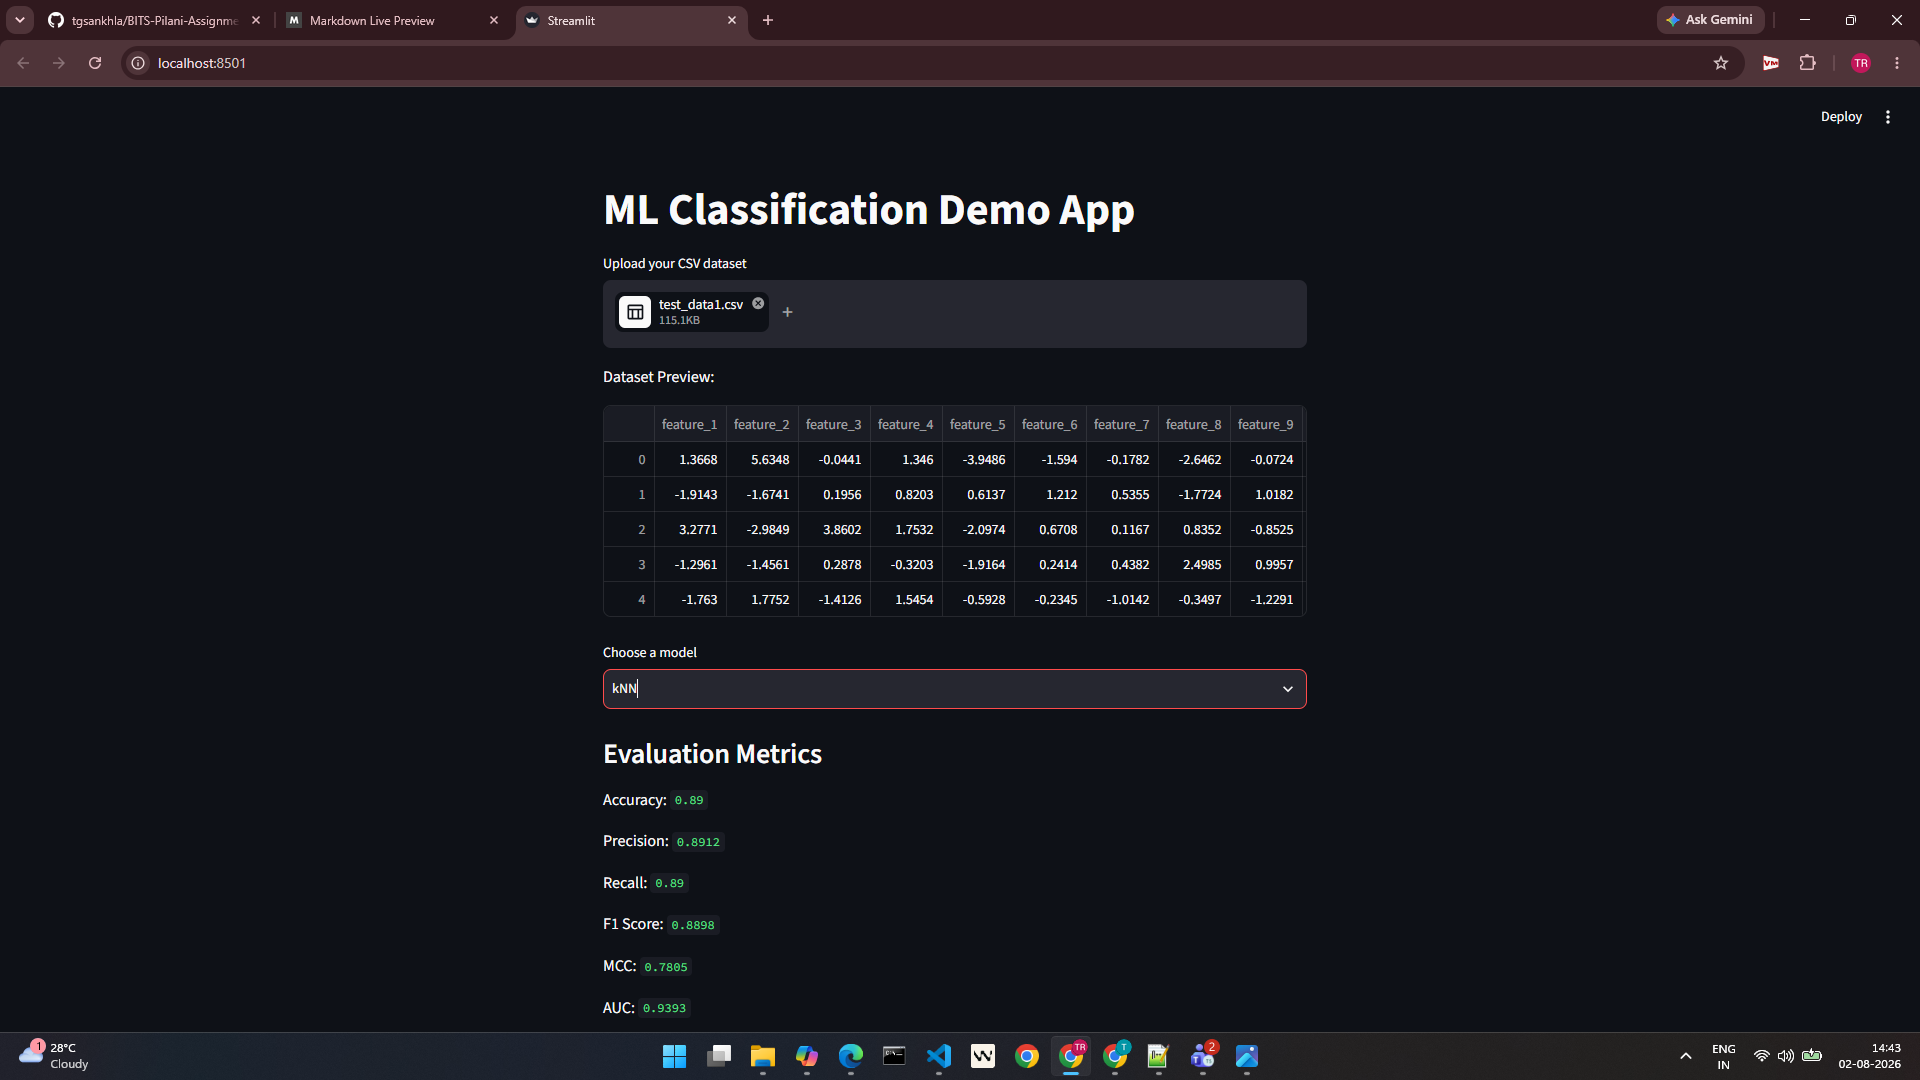
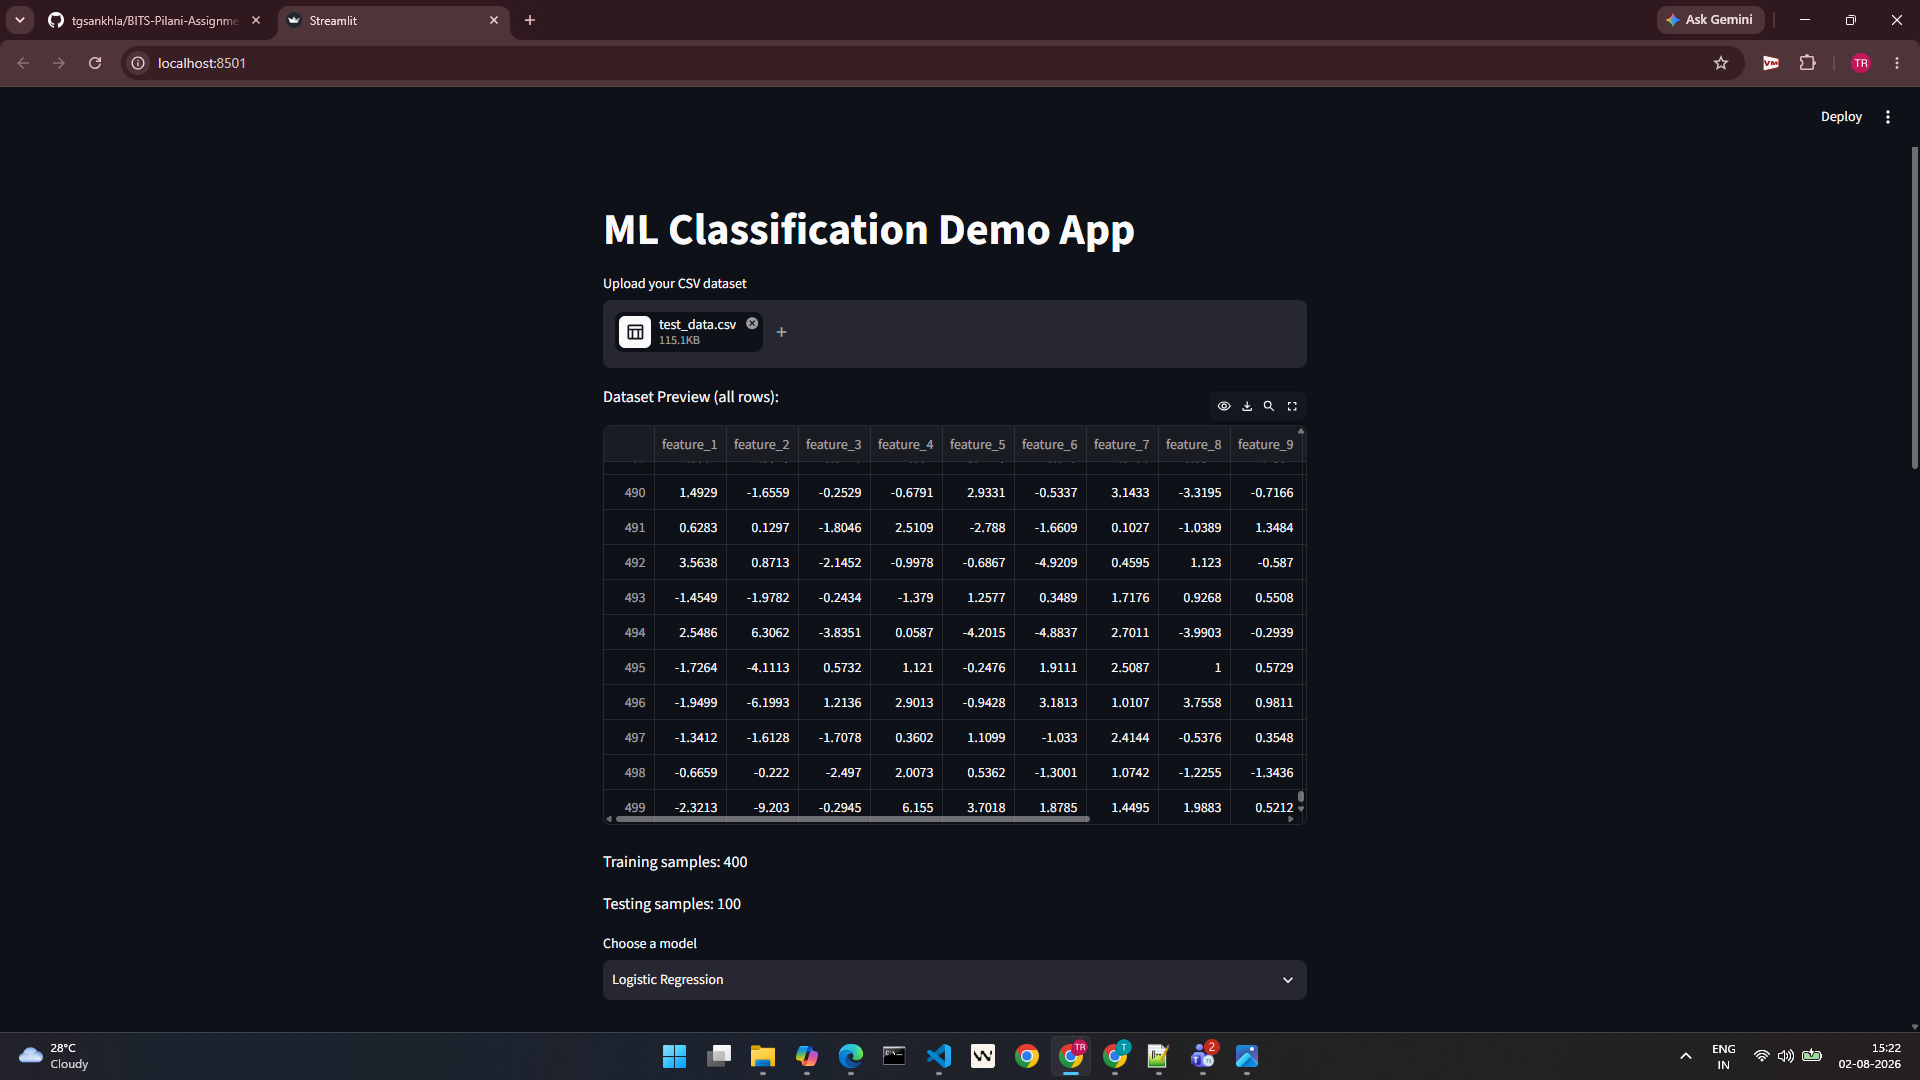
ML Assignment 2

diff --git a/app.py b/app.py
@@ -25,7 +25,10 @@ uploaded_file = st.file_uploader("Upload your CSV dataset", type="csv")
 
 if uploaded_file:
     data = pd.read_csv(uploaded_file)
-    st.write("Dataset Preview:", data.head())
+
+    # Show full dataset
+    st.write("Dataset Preview (all rows):")
+    st.dataframe(data)
 
     # Assume last column is target
     X = data.iloc[:, :-1]
@@ -35,6 +38,9 @@ if uploaded_file:
     X_train, X_test, y_train, y_test = train_test_split(
         X, y, test_size=0.2, random_state=42
     )
+
+    st.write(f"Training samples: {len(X_train)}")
+    st.write(f"Testing samples: {len(X_test)}")
 
     # Scale features
     scaler = StandardScaler()
@@ -70,6 +76,7 @@ if uploaded_file:
 
     # Metrics
     st.subheader("Evaluation Metrics")
+    st.write(f"Evaluation performed on {len(y_test)} test samples out of {len(data)} total rows.")
     st.write("Accuracy:", round(accuracy_score(y_test, y_pred), 4))
     st.write("Precision:", round(precision_score(y_test, y_pred, average='weighted'), 4))
     st.write("Recall:", round(recall_score(y_test, y_pred, average='weighted'), 4))
@@ -77,6 +84,8 @@ if uploaded_file:
     st.write("MCC:", round(matthews_corrcoef(y_test, y_pred), 4))
     if y_prob is not None and len(np.unique(y)) == 2:
         st.write("AUC:", round(roc_auc_score(y_test, y_prob), 4))
+    else:
+        st.write("AUC: N/A (binary classification required)")
 
     # Confusion Matrix
     st.subheader("Confusion Matrix")
